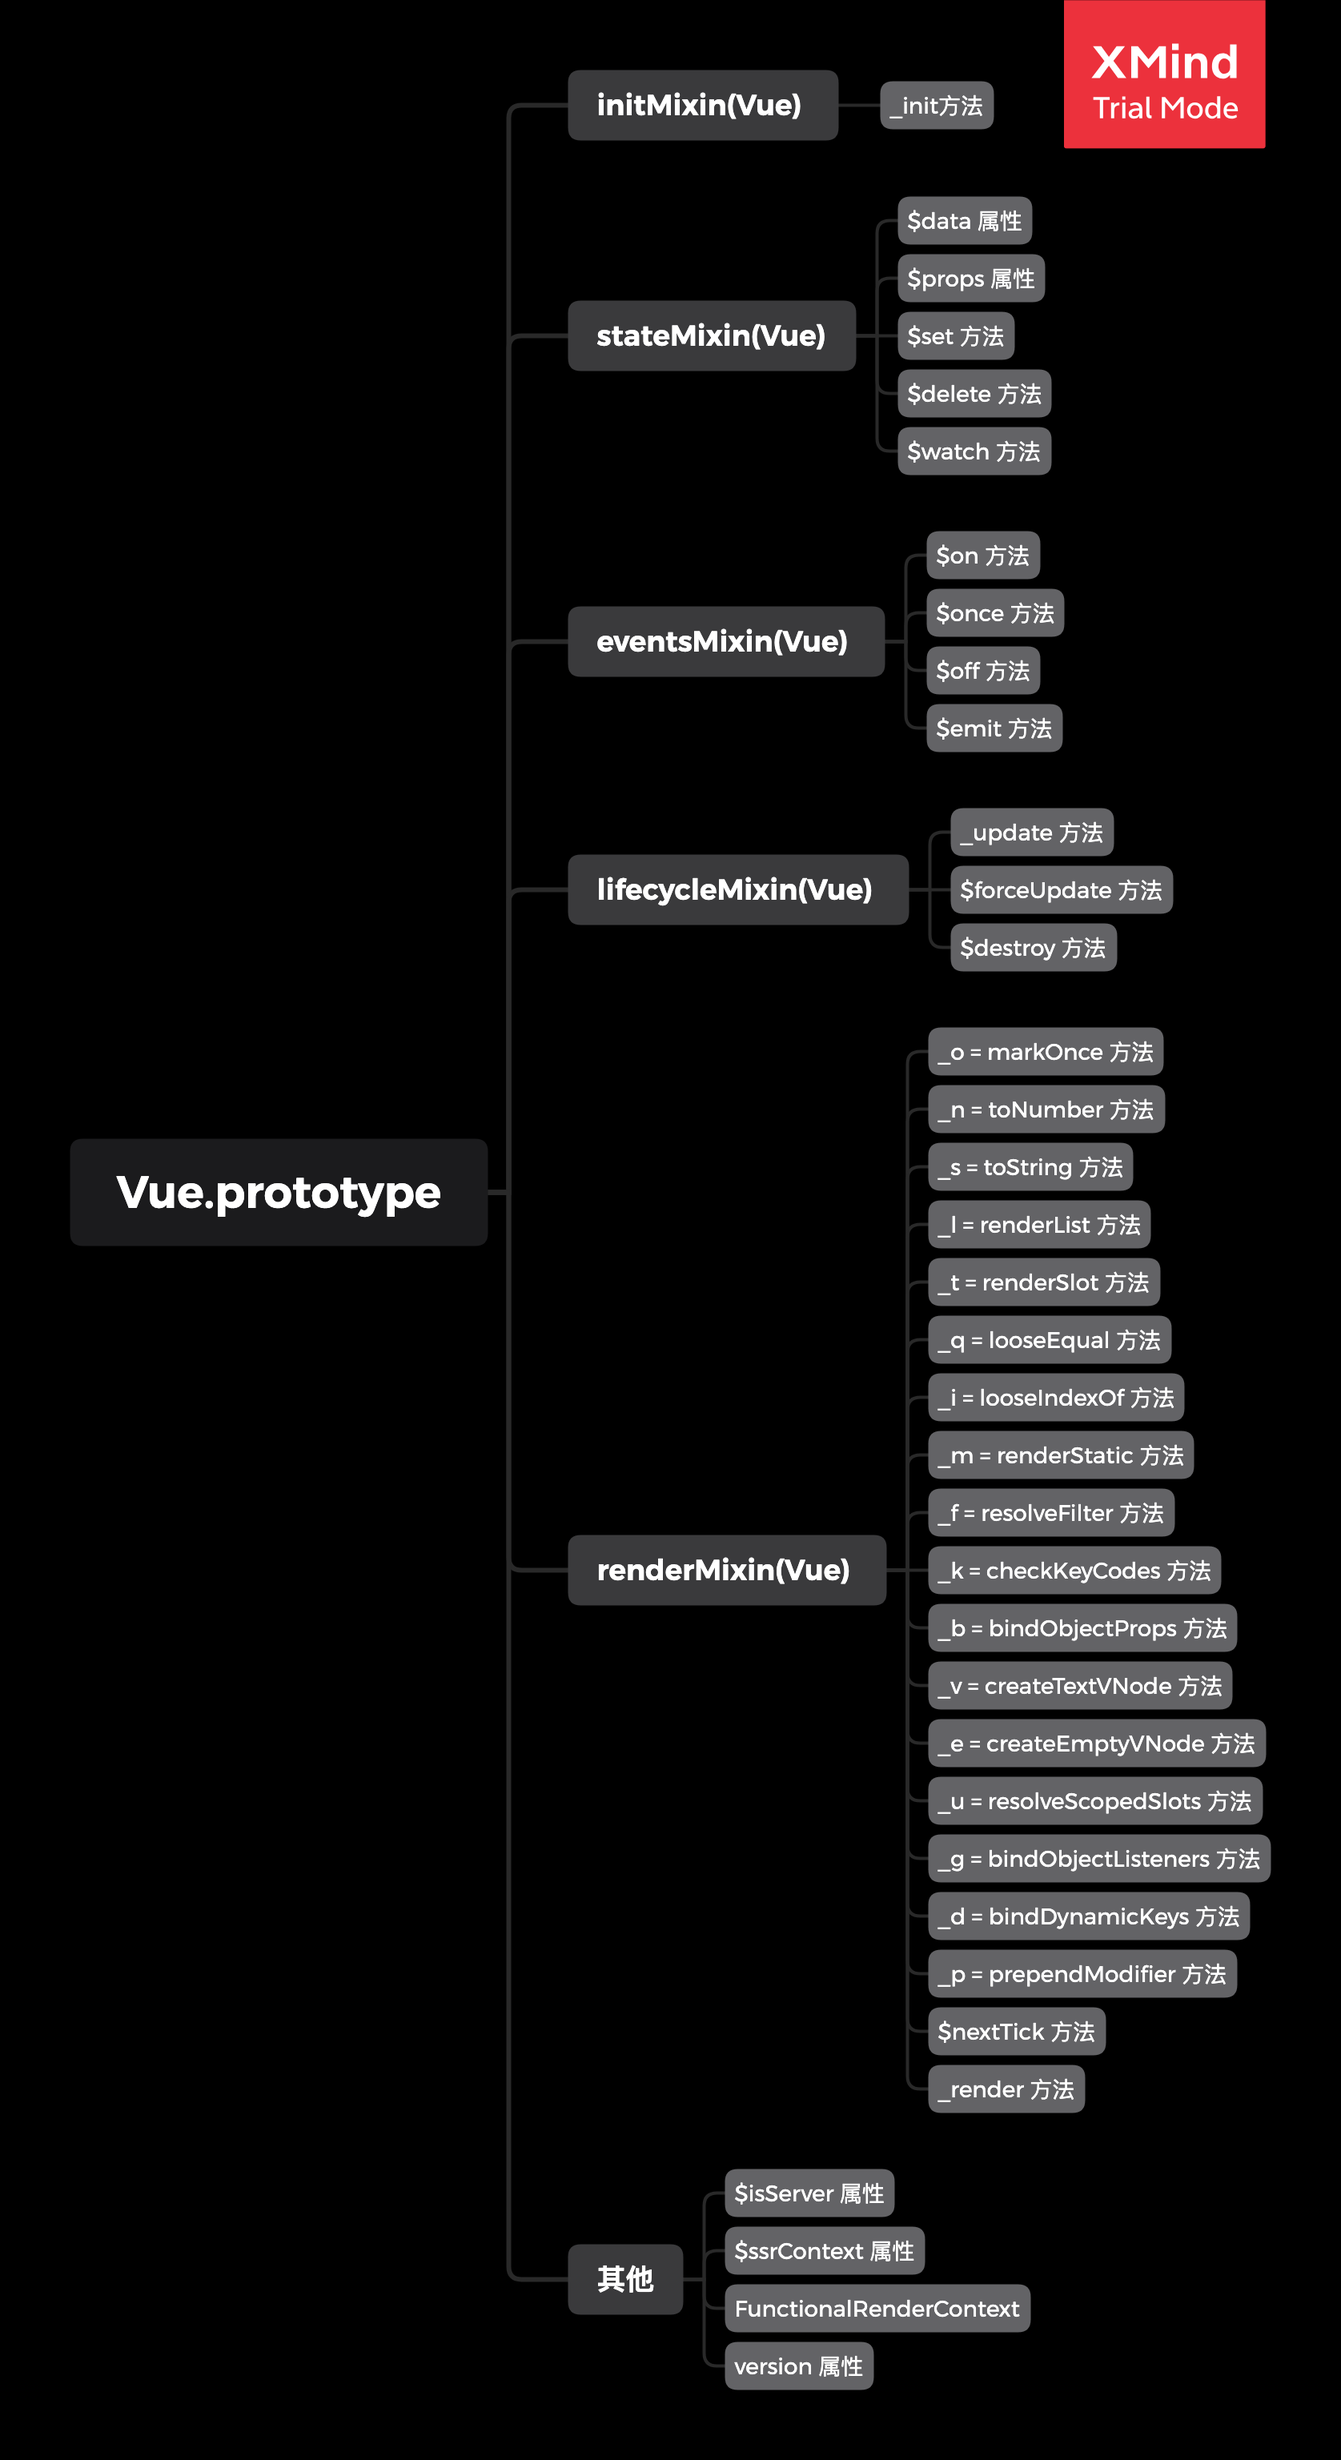
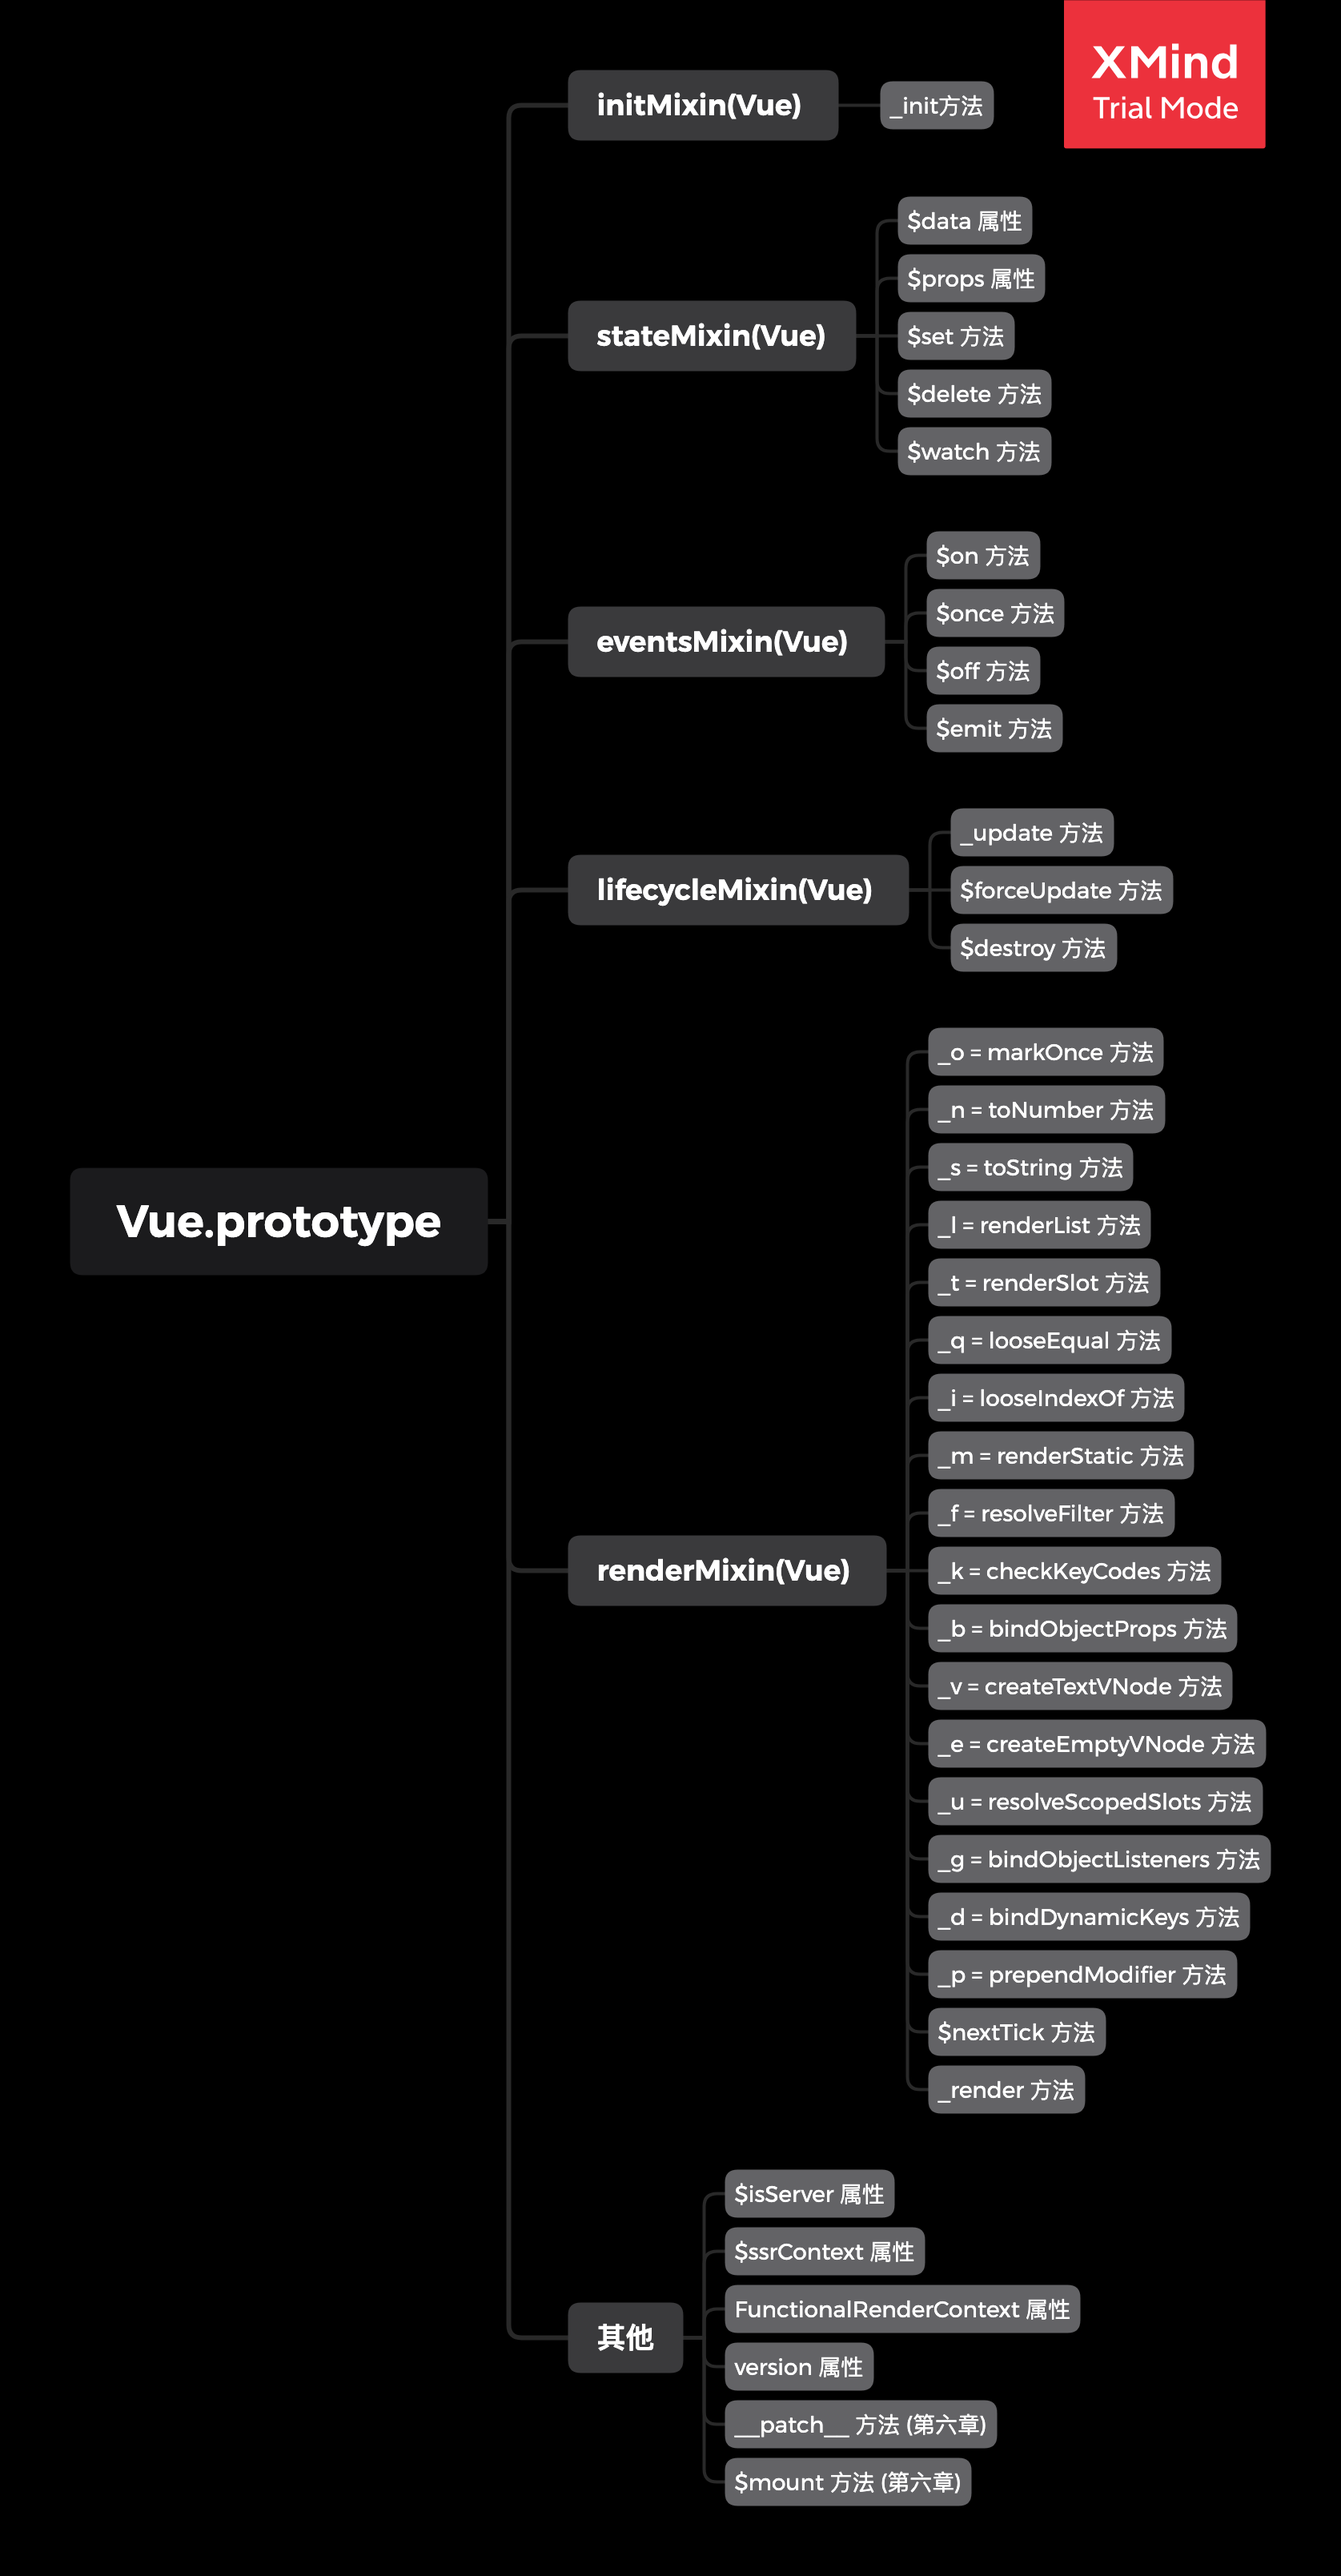
vue源码分析(六) 平台化

diff --git a/blog/view/vue/2018/10060800.md b/blog/view/vue/2018/10060800.md
@@ -10,3 +10,190 @@ tags:
 ---
 
 ## 1. 概述
+
+	在 [**vue源码分析(一) vue目录结构**](https://lotosv2010.github.io/view/vue/2018/10010800.html) 章节中，我们知道 `Vue.js`  支持 `Web` 平台和 `Weex`平台。
+
+::: warning
+
+说明：关于Weex 和 Web 的平台差异，请移步到[这里]([https://weex.apache.org/zh/guide/platform-difference.html#weex-%E7%8E%AF%E5%A2%83%E4%B8%AD%E6%B2%A1%E6%9C%89-dom](https://weex.apache.org/zh/guide/platform-difference.html#weex-环境中没有-dom))学习。
+
+:::
+
+## 2. 平台运行时全局配置
+
+	接下来我们回到 `src/platforms/web/runtime/index.js` ，源码一开始就对全局配置进行覆盖，代码如下： 
+
+	源码目录: `src/platforms/web/runtime/index.js`
+
+```js
+// install platform specific utils
+Vue.config.mustUseProp = mustUseProp
+Vue.config.isReservedTag = isReservedTag
+Vue.config.isReservedAttr = isReservedAttr
+Vue.config.getTagNamespace = getTagNamespace
+Vue.config.isUnknownElement = isUnknownElement
+```
+
+::: danger
+
+说明：关于这些配置的说明，我们[**下一章**](https://lotosv2010.github.io/view/vue/2018/10070800.html)会详细说明。
+
+:::
+
+## 3. 平台运行时指令和组件
+
+	上一章 —— [**vue源码分析(五) 静态属性和方法**](https://lotosv2010.github.io/view/vue/2018/10050800.html#_2-7-options) 我们分析过 `Vue` 的静态属性 `options` 的情况，上一章最终生成的 `options` 静态属性如下：
+
+```js
+Vue.options = {
+	components: {
+    KeepAlive
+  },
+	directives: Object.create(null),
+	filters: Object.create(null),
+	_base: Vue
+}
+```
+
+	接下来执行的两句代码是给 `Vue` 添加平台运行时指令和组件，代码如下：
+
+	源码目录: `src/platforms/web/runtime/index.js`
+
+```js
+// install platform runtime directives & components
+extend(Vue.options.directives, platformDirectives)
+extend(Vue.options.components, platformComponents)
+```
+
+	这段代码就是通过extend函数给 `Vue.options.directives` 和 `Vue.options.components` 扩展属性，我们再来看看 `platformDirectives`  和 `platformComponents` 的定义，如下：
+
+	源码目录: `src/platforms/web/runtime/directives/index.js`
+
+```js
+export default {
+  model,
+  show
+}
+```
+
+	源码目录: `src/platforms/web/runtime/components/index.js`
+
+```js
+export default {
+  Transition,
+  TransitionGroup
+}
+```
+
+	通过查看源码我们可以得出，最终生成的`options` 静态属为：
+
+```js
+Vue.options = {
+	components: {
+		KeepAlive,
+		Transition,
+		TransitionGroup
+	},
+	directives: {
+		model,
+		show
+	},
+	filters: Object.create(null),
+	_base: Vue
+}
+```
+
+::: danger
+
+说明：关于这些指令和组件，我们后面章节会详细说明。
+
+:::
+
+## 4. `__patch__` 实例方法
+
+	我们继续分析接下来执行的代码，如下：
+
+	源码目录: `src/platforms/web/runtime/index.js`
+
+```js
+// install platform patch function
+// 初始化path方法
+Vue.prototype.__patch__ = inBrowser ? patch : noop
+```
+
+	这段代码是在 `Vue.prototype` 上添加 `__patch__` 方法，如果在浏览器环境运行的话，这个方法的值为 `patch` 函数，否则是一个空函数 `noop`。
+
+::: danger
+
+说明：关于`patch`，我们后面章节会详细说明。
+
+:::
+
+## 5. `$mount` 实例方法
+
+	接着在 `Vue.prototype` 上添加了 `$mount` 方法，原型上声明的 `$mount` 方法在,这个方法会被`runtime only` 版本和 `runtime compiler` 版本中复用。
+
+	源码目录: `src/platforms/web/runtime/index.js`
+
+```js
+// public mount method
+Vue.prototype.$mount = function (
+  el?: string | Element, // 真实的dom 或者 是string
+  hydrating?: boolean // 新的虚拟dom vnode
+): Component {
+  el = el && inBrowser ? query(el) : undefined
+  return mountComponent(this, el, hydrating)
+}
+```
+
+## 6. **devtools**
+
+	最后是设置 `vue-devtools` 的全局钩子，它被包裹在 `setTimeout` 中，代码如下：
+
+	源码目录: `src/platforms/web/runtime/index.js`
+
+```js
+// devtools global hook
+/* istanbul ignore next */
+if (inBrowser) {
+  setTimeout(() => {
+    if (config.devtools) {
+      if (devtools) {
+        devtools.emit('init', Vue)
+      } else if (
+        process.env.NODE_ENV !== 'production' &&
+        process.env.NODE_ENV !== 'test'
+      ) {
+        console[console.info ? 'info' : 'log'](
+          'Download the Vue Devtools extension for a better development experience:\n' +
+          'https://github.com/vuejs/vue-devtools'
+        )
+      }
+    }
+    if (process.env.NODE_ENV !== 'production' &&
+      process.env.NODE_ENV !== 'test' &&
+      config.productionTip !== false &&
+      typeof console !== 'undefined'
+    ) {
+      console[console.info ? 'info' : 'log'](
+        `You are running Vue in development mode.\n` +
+        `Make sure to turn on production mode when deploying for production.\n` +
+        `See more tips at https://vuejs.org/guide/deployment.html`
+      )
+    }
+  }, 0)
+}
+```
+
+## 7. 总结
+
+ 文件 `src/platforms/web/runtime/index.js` 文件主要是 `web` 平台下的一些配置，主要总结起来有以下几点：
+
+1. 设置 `web` 平台的 `Vue.config`。
+2. 在 `Vue.options` 上混合了两个指令(`directives`)，分别是 `model` 和 `show`。
+3. 在 `Vue.options` 上混合了两个组件(`components`)，分别是 `Transition` 和 `TransitionGroup`。
+4. 在 `Vue.prototype` 上添加了两个方法：`__patch__` 和 `$mount`。
+
+
+
+	
